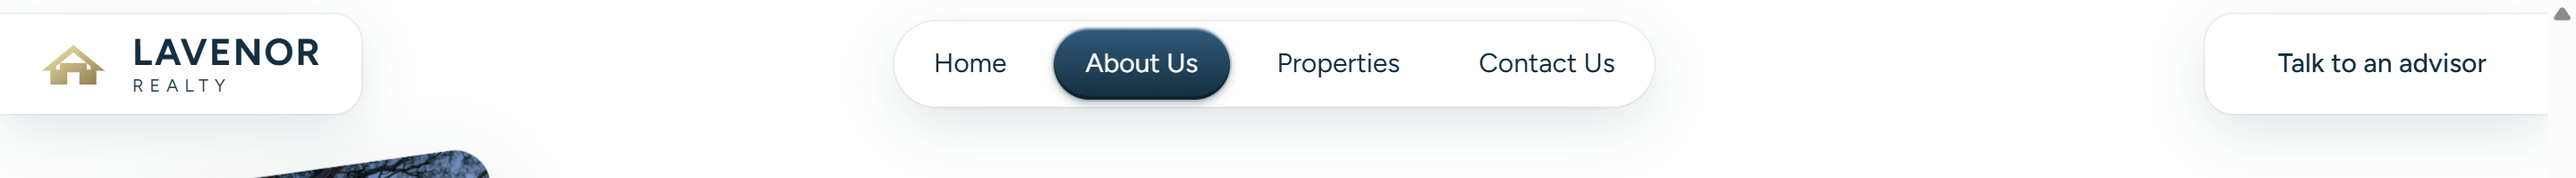
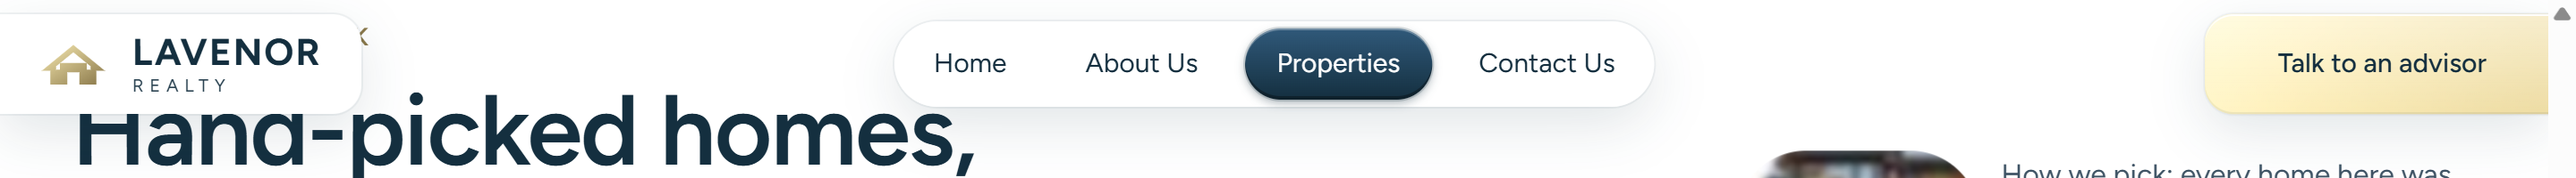
Header and home: glass hover on the bookmark, reload starts at the top, Properties lights up over the featured section, dropdowns open the same way per form, FAQ reserves its height

diff --git a/design/prototype/app.js b/design/prototype/app.js
@@ -70,6 +70,13 @@
 	/* ------------------------------------------------------------------
 	 * Header: transparent over the hero, frosted + compact after scroll.
 	 * ------------------------------------------------------------------ */
+	// where the menu follows the page, a reload starts at the top: the rendered menu state is then right from
+	// the first frame and nothing shifts under a restored position
+	if ($('[data-header] a[href*="#"]') && 'scrollRestoration' in history && performance.getEntriesByType('navigation')[0]?.type === 'reload' && !location.hash) {
+		history.scrollRestoration = 'manual';
+		scrollTo({ top: 0, behavior: 'instant' });
+	}
+
 	const header = $('[data-header]');
 	if (header) {
 		const update = () => header.classList.toggle('is-scrolled', window.scrollY > 40);
@@ -83,7 +90,16 @@
 	 * the first section.
 	 * ------------------------------------------------------------------ */
 	const spyLinks = $$('.nav__list a, .drawer__nav a');
-	const sameHash = (a) => { const h = a.getAttribute('href') || ''; const u = new URL(a.href, location.href); return u.pathname === location.pathname && u.hash && u.hash !== '#' ? u.hash : (h === '#' || (u.pathname === location.pathname && !u.hash) ? '' : null); };
+	/* a link's section: its hash on this page; or, for a link to another page, a section here whose id matches
+	   the link's last path segment (the Properties link lights up over the featured properties section) */
+	const sameHash = (a) => {
+		const h = a.getAttribute('href') || '';
+		const u = new URL(a.href, location.href);
+		if (u.pathname === location.pathname) return u.hash && u.hash !== '#' ? u.hash : '';
+		if (h === '#') return '';
+		const slug = u.pathname.replace(/\/+$/, '').split('/').pop();
+		return slug && document.getElementById(slug) ? `#${slug}` : null;
+	};
 	const spy = spyLinks.map((a) => ({ a, hash: sameHash(a) })).filter((l) => l.hash !== null);
 	const spyTargets = [...new Set(spy.map((l) => l.hash).filter(Boolean))].map((hash) => ({ hash, el: $(hash) })).filter((t) => t.el);
 	const navList = $('.nav__list');
@@ -1181,6 +1197,17 @@
 	const faq = $('[data-faq]');
 	if (faq) {
 		const items = $$('.faq__item', faq);
+		// the list reserves room for its tallest answer, so opening and closing never moves the section below
+		const reserve = () => {
+			const open = items.find((i) => i.classList.contains('is-open'));
+			const openInner = open && $('.faq__a-inner', open);
+			const openH = openInner ? openInner.offsetHeight : 0;
+			const tallest = Math.max(...items.map((i) => $('.faq__a-inner', i).scrollHeight));
+			faq.style.minHeight = `${faq.offsetHeight - openH + tallest}px`;
+		};
+		reserve();
+		document.fonts?.ready.then(reserve);
+		let reserveTimer; addEventListener('resize', () => { clearTimeout(reserveTimer); reserveTimer = setTimeout(() => { faq.style.minHeight = ''; reserve(); }, 150); });
 		items.forEach((item) => {
 			$('.faq__q', item).addEventListener('click', () => {
 				const open = !item.classList.contains('is-open');
@@ -1204,7 +1231,10 @@
 		const reducedMotion = matchMedia('(prefers-reduced-motion: reduce)').matches;
 		let lastGap = Infinity;
 		let settleTimer;
+		let userScrolled = false; // never on the browser's own scroll (restoring a position, jumping to a hash)
+		['wheel', 'touchstart', 'keydown', 'pointerdown'].forEach((ev) => addEventListener(ev, () => { userScrolled = true; }, { passive: true, once: true }));
 		const settle = () => {
+			if (!userScrolled) return;
 			const top = band.getBoundingClientRect().top;
 			const gap = Math.abs(top);
 			const approaching = gap < lastGap;
@@ -1308,7 +1338,9 @@
 				// settles the start state so the fade-in transition runs)
 				const r = wrap.getBoundingClientRect();
 				const below = innerHeight - r.bottom;
-				menu.classList.toggle('dd__menu--up', below < menu.offsetHeight + 12 && r.top > below);
+				// upwards when there is no room below, and whenever the field sits in the lower half of the viewport,
+				// so the fields of one form all open the same way
+				menu.classList.toggle('dd__menu--up', (below < menu.offsetHeight + 12 && r.top > below) || (r.bottom > innerHeight * 0.55 && r.top > menu.offsetHeight + 12));
 				menu.classList.add('is-open');
 				wrap.classList.add('is-open');
 				button.setAttribute('aria-expanded', 'true');

diff --git a/theme/bytenot-estate/assets/js/theme.js b/theme/bytenot-estate/assets/js/theme.js
@@ -17,6 +17,13 @@
 	/* ------------------------------------------------------------------
 	 * Header: transparent over the hero, frosted + compact after scroll.
 	 * ------------------------------------------------------------------ */
+	// where the menu follows the page, a reload starts at the top: the rendered menu state is then right from
+	// the first frame and nothing shifts under a restored position
+	if ($('[data-header] a[href*="#"]') && 'scrollRestoration' in history && performance.getEntriesByType('navigation')[0]?.type === 'reload' && !location.hash) {
+		history.scrollRestoration = 'manual';
+		scrollTo({ top: 0, behavior: 'instant' });
+	}
+
 	const header = $('[data-header]');
 	if (header) {
 		const update = () => header.classList.toggle('is-scrolled', window.scrollY > 40);
@@ -30,7 +37,16 @@
 	 * the first section.
 	 * ------------------------------------------------------------------ */
 	const spyLinks = $$('.nav__list a, .drawer__nav a');
-	const sameHash = (a) => { const h = a.getAttribute('href') || ''; const u = new URL(a.href, location.href); return u.pathname === location.pathname && u.hash && u.hash !== '#' ? u.hash : (h === '#' || (u.pathname === location.pathname && !u.hash) ? '' : null); };
+	/* a link's section: its hash on this page; or, for a link to another page, a section here whose id matches
+	   the link's last path segment (the Properties link lights up over the featured properties section) */
+	const sameHash = (a) => {
+		const h = a.getAttribute('href') || '';
+		const u = new URL(a.href, location.href);
+		if (u.pathname === location.pathname) return u.hash && u.hash !== '#' ? u.hash : '';
+		if (h === '#') return '';
+		const slug = u.pathname.replace(/\/+$/, '').split('/').pop();
+		return slug && document.getElementById(slug) ? `#${slug}` : null;
+	};
 	const spy = spyLinks.map((a) => ({ a, hash: sameHash(a) })).filter((l) => l.hash !== null);
 	const spyTargets = [...new Set(spy.map((l) => l.hash).filter(Boolean))].map((hash) => ({ hash, el: $(hash) })).filter((t) => t.el);
 	const navList = $('.nav__list');
@@ -818,6 +834,17 @@
 	const faq = $('[data-faq]');
 	if (faq) {
 		const items = $$('.faq__item', faq);
+		// the list reserves room for its tallest answer, so opening and closing never moves the section below
+		const reserve = () => {
+			const open = items.find((i) => i.classList.contains('is-open'));
+			const openInner = open && $('.faq__a-inner', open);
+			const openH = openInner ? openInner.offsetHeight : 0;
+			const tallest = Math.max(...items.map((i) => $('.faq__a-inner', i).scrollHeight));
+			faq.style.minHeight = `${faq.offsetHeight - openH + tallest}px`;
+		};
+		reserve();
+		document.fonts?.ready.then(reserve);
+		let reserveTimer; addEventListener('resize', () => { clearTimeout(reserveTimer); reserveTimer = setTimeout(() => { faq.style.minHeight = ''; reserve(); }, 150); });
 		items.forEach((item) => {
 			$('.faq__q', item).addEventListener('click', () => {
 				const open = !item.classList.contains('is-open');
@@ -839,7 +866,10 @@
 		const band = inquiry.closest('.inquiry');
 		let lastGap = Infinity;
 		let settleTimer;
+		let userScrolled = false; // never on the browser's own scroll (restoring a position, jumping to a hash)
+		['wheel', 'touchstart', 'keydown', 'pointerdown'].forEach((ev) => addEventListener(ev, () => { userScrolled = true; }, { passive: true, once: true }));
 		const settle = () => {
+			if (!userScrolled) return;
 			const top = band.getBoundingClientRect().top;
 			const gap = Math.abs(top);
 			const approaching = gap < lastGap;
@@ -933,7 +963,9 @@
 				menu.hidden = false;
 				const r = wrap.getBoundingClientRect();
 				const below = innerHeight - r.bottom;
-				menu.classList.toggle('dd__menu--up', below < menu.offsetHeight + 12 && r.top > below);
+				// upwards when there is no room below, and whenever the field sits in the lower half of the viewport,
+				// so the fields of one form all open the same way
+				menu.classList.toggle('dd__menu--up', (below < menu.offsetHeight + 12 && r.top > below) || (r.bottom > innerHeight * 0.55 && r.top > menu.offsetHeight + 12));
 				menu.classList.add('is-open');
 				wrap.classList.add('is-open');
 				button.setAttribute('aria-expanded', 'true');

diff --git a/design/prototype/style.css b/design/prototype/style.css
@@ -182,9 +182,15 @@ legend { padding: 0; }
 .site-header .btn--cta::after { content: ""; position: absolute; inset: -1px; z-index: -2; border-radius: inherit; background: var(--wp--preset--gradient--brand-gold-soft); box-shadow: inset 0 1px 0 rgba(255, 255, 255, 0.45); transition: opacity .25s ease; }
 .site-header.is-scrolled .btn--cta { color: var(--wp--preset--color--contrast); }
 .site-header.is-scrolled .btn--cta::after, .site-header.is-scrolled .btn--cta::before { opacity: 0; }
-/* white sweep across the whole bookmark on hover; the text stays navy */
-.site-header__right::after { content: ""; position: absolute; inset: 0; z-index: -1; border-radius: inherit; background: var(--wp--preset--color--base); transform: scaleX(0); transform-origin: left center; transition: transform .5s cubic-bezier(.22, 1, .36, 1); }
-.site-header.is-scrolled .site-header__right:hover::after { transform: scaleX(1); }
+/* hover: a frosted glass layer settles over the gold; the text stays navy */
+.site-header__right::after {
+	content: ""; position: absolute; inset: 0; z-index: -1; border-radius: inherit; opacity: 0;
+	background: linear-gradient(180deg, rgba(255, 255, 255, 0.62) 0%, rgba(255, 255, 255, 0.34) 100%);
+	box-shadow: inset 0 1px 0 rgba(255, 255, 255, 0.9), inset 0 -1px 0 rgba(20, 47, 63, 0.08);
+	-webkit-backdrop-filter: blur(18px) saturate(1.3) brightness(1.06); backdrop-filter: blur(18px) saturate(1.3) brightness(1.06);
+	transition: opacity .45s cubic-bezier(.22, 1, .36, 1);
+}
+.site-header.is-scrolled .site-header__right:hover::after { opacity: 1; }
 
 .brand { display: inline-flex; align-items: center; gap: 12px; line-height: 1; }
 .brand__mark { flex: none; width: 42px; height: auto; }

diff --git a/theme/bytenot-estate/assets/css/theme.css b/theme/bytenot-estate/assets/css/theme.css
@@ -134,9 +134,15 @@ legend { padding: 0; }
 .site-header .btn--cta::after { content: ""; position: absolute; inset: -1px; z-index: -2; border-radius: inherit; background: var(--wp--preset--gradient--brand-gold-soft); box-shadow: inset 0 1px 0 rgba(255, 255, 255, 0.45); transition: opacity .25s ease; }
 .site-header.is-scrolled .btn--cta { color: var(--wp--preset--color--contrast); }
 .site-header.is-scrolled .btn--cta::after, .site-header.is-scrolled .btn--cta::before { opacity: 0; }
-/* white sweep across the whole bookmark on hover; the text stays navy */
-.site-header__right::after { content: ""; position: absolute; inset: 0; z-index: -1; border-radius: inherit; background: var(--wp--preset--color--base); transform: scaleX(0); transform-origin: left center; transition: transform .5s cubic-bezier(.22, 1, .36, 1); }
-.site-header.is-scrolled .site-header__right:hover::after { transform: scaleX(1); }
+/* hover: a frosted glass layer settles over the gold; the text stays navy */
+.site-header__right::after {
+	content: ""; position: absolute; inset: 0; z-index: -1; border-radius: inherit; opacity: 0;
+	background: linear-gradient(180deg, rgba(255, 255, 255, 0.62) 0%, rgba(255, 255, 255, 0.34) 100%);
+	box-shadow: inset 0 1px 0 rgba(255, 255, 255, 0.9), inset 0 -1px 0 rgba(20, 47, 63, 0.08);
+	-webkit-backdrop-filter: blur(18px) saturate(1.3) brightness(1.06); backdrop-filter: blur(18px) saturate(1.3) brightness(1.06);
+	transition: opacity .45s cubic-bezier(.22, 1, .36, 1);
+}
+.site-header.is-scrolled .site-header__right:hover::after { opacity: 1; }
 
 .brand { display: inline-flex; align-items: center; gap: 12px; line-height: 1; }
 .brand__mark { flex: none; width: 42px; height: auto; }
